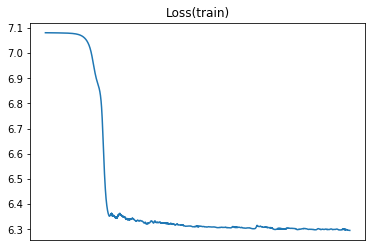
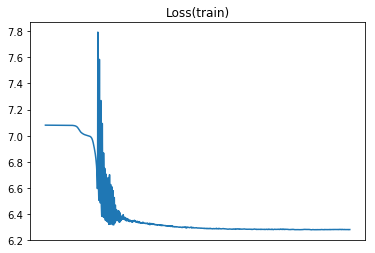
Update the part of runing with simulated data.

diff --git a/README.md b/README.md
@@ -86,14 +86,15 @@ input_nodes = 10
 output_nodes = 1
 train_X = train_data['x']
 train_y = {'e': train_data['e'], 't': train_data['t']}
+# the arguments of dsnn is obtained by Bayesian Hyperparameters Tuning
 model = dsl.dsnn(
     train_X, train_y,
     input_nodes, [6, 3], output_nodes, 
-    learning_rate=0.2,
+    learning_rate=0.7,
     learning_rate_decay=1.0,
     activation='relu', 
-    L1_reg=0.0002, 
-    L2_reg=0.0003, 
+    L1_reg=3.4e-5, 
+    L2_reg=8.8e-5, 
     optimizer='adam',
     dropout_keep_prob=1.0
 )
@@ -105,7 +106,7 @@ print(model.get_ties())
 #### Train neural network model
 ```python
 # Plot curve of loss and CI on train data
-model.train(num_epoch=2500, iteration=100,
+model.train(num_epoch=1900, iteration=100,
             plot_train_loss=True, plot_train_ci=True)
 ```
 
@@ -113,31 +114,23 @@ result :
 ```
 -------------------------------------------------
 training steps 1:
-loss = 7.08086.
-CI = 0.532591.
+loss = 7.07988.
+CI = 0.494411.
 -------------------------------------------------
 training steps 101:
-loss = 7.0803.
-CI = 0.557864.
+loss = 7.0797.
+CI = 0.524628.
 -------------------------------------------------
 training steps 201:
-loss = 7.07884.
-CI = 0.591186.
+loss = 7.06293.
+CI = 0.569339.
 ...
 ...
 ...
 -------------------------------------------------
-training steps 2201:
-loss = 6.29935.
-CI = 0.81826.
--------------------------------------------------
-training steps 2301:
-loss = 6.30067.
-CI = 0.818013.
--------------------------------------------------
-training steps 2401:
-loss = 6.29985.
-CI = 0.818038.
+training steps 1801:
+loss = 6.27862.
+CI = 0.823937.
 ```
 Curve of loss and CI:
 
@@ -154,8 +147,8 @@ print("CI on test set: %g" % model.score(test_X, test_y))
 ```
 result :
 ```
-CI on train set: 0.819224
-CI on test set: 0.817987
+CI on train set: 0.823772
+CI on test set: 0.812503
 ```
 
 #### Evaluate variable importance
@@ -164,16 +157,16 @@ model.get_vip_byweights()
 ```
 result:
 ```
-0th feature score : -0.157754.
-1th feature score : 1.
-2th feature score : -0.0505626.
-3th feature score : -0.0559399.
-4th feature score : 0.0426953.
-5th feature score : 0.0687309.
-6th feature score : 0.00604751.
-7th feature score : 0.0584479.
-8th feature score : -0.100448.
-9th feature score : 0.00362639.
+0th feature score : 1.
+1th feature score : 0.149105.
+2th feature score : -0.126712.
+3th feature score : 0.033377.
+4th feature score : 0.123096.
+5th feature score : 0.0321232.
+6th feature score : 0.101529.
+7th feature score : -0.0707392.
+8th feature score : -0.0415884.
+9th feature score : 0.0439712.
 ```
 
 #### Get estimation of survival function
